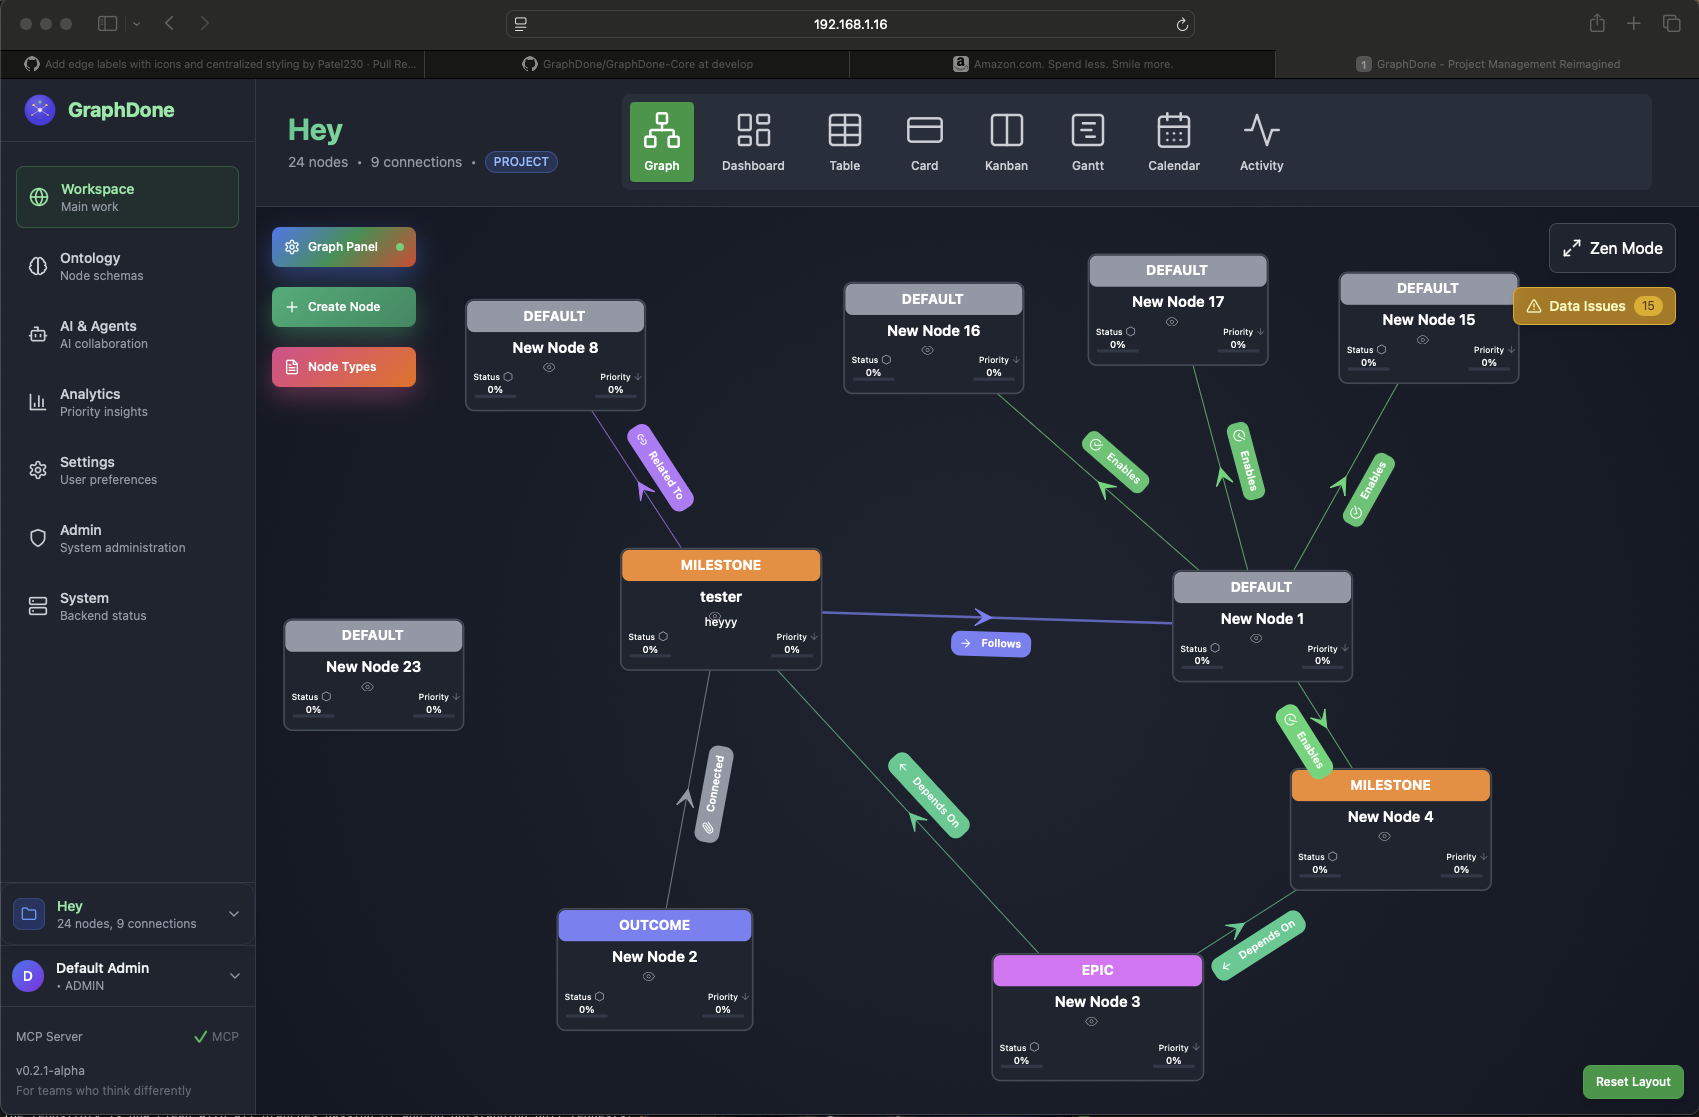
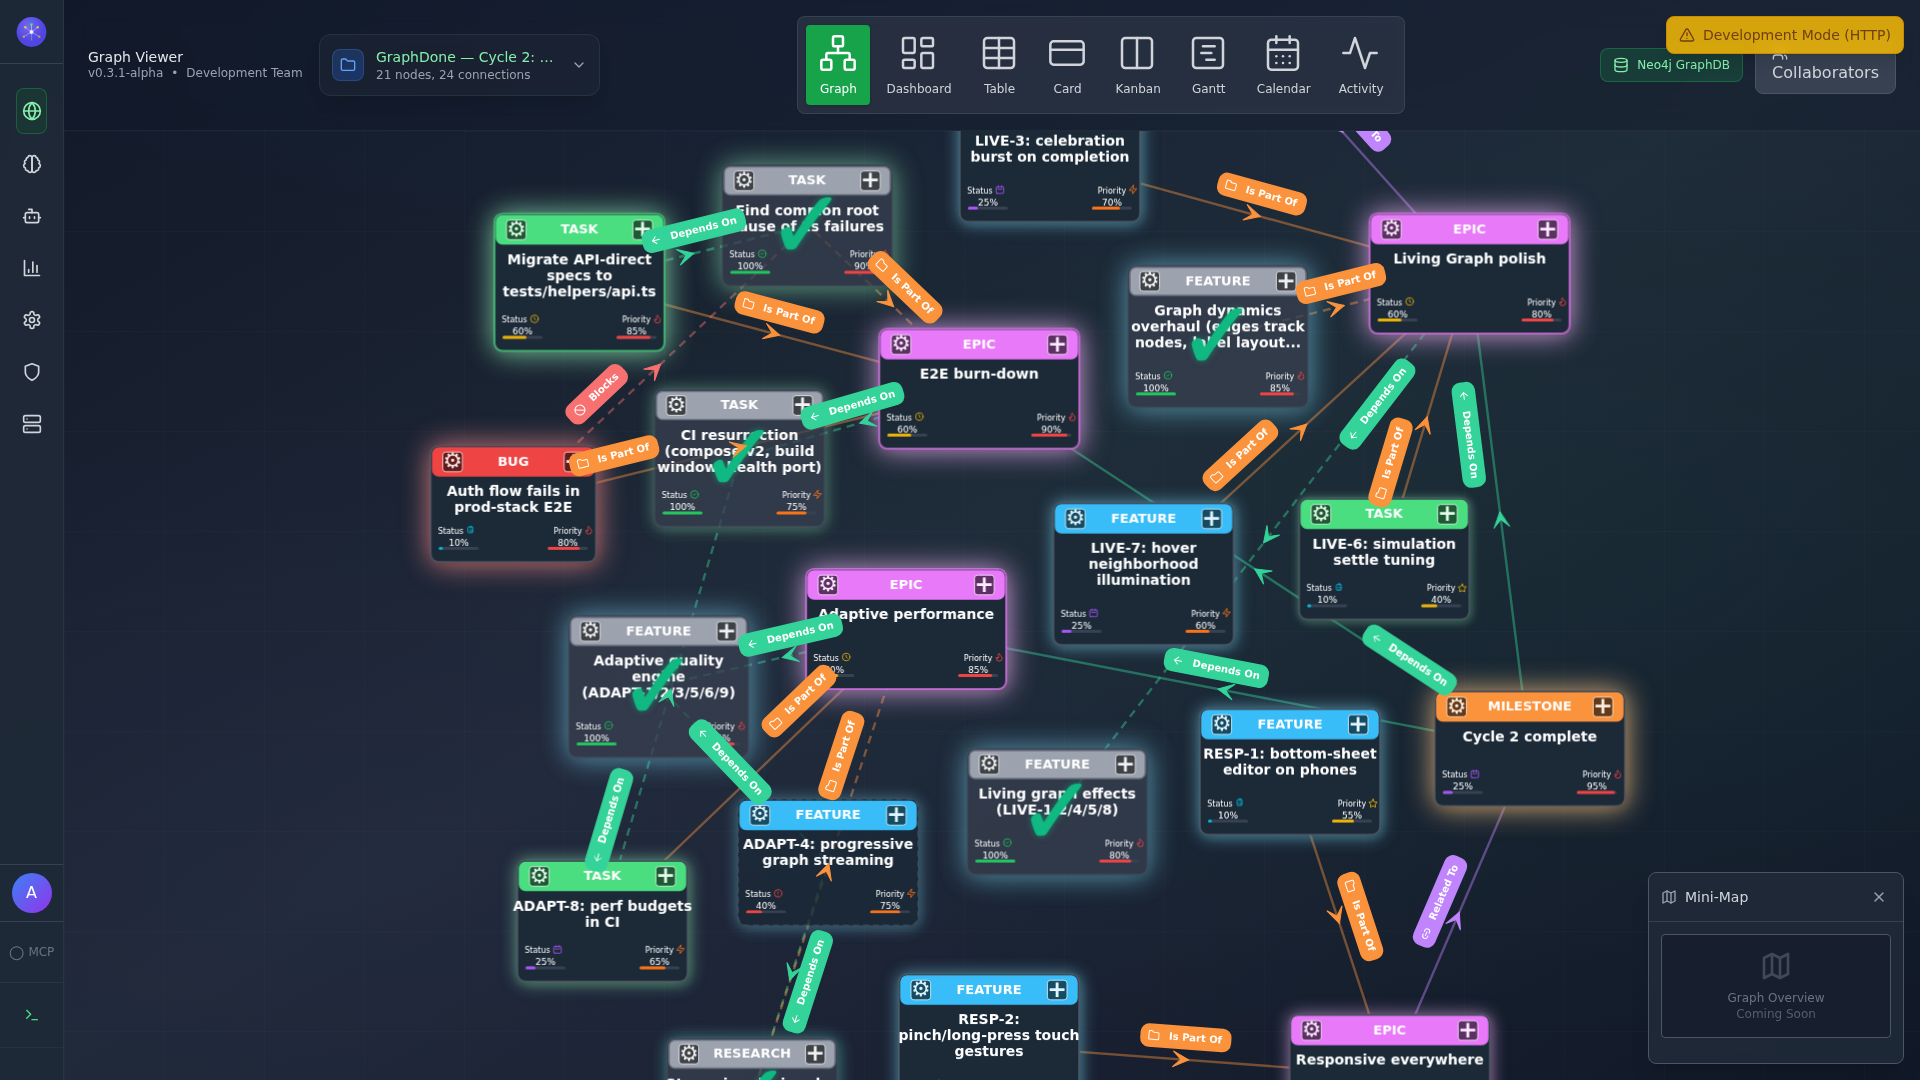
Presentability pass: README for the Living Graph era, all 43 mermaid diagrams verified
- README features now describe what's actually true today: the living
  graph, adaptive performance, click-budget UX with undo, MCP/AI
  parity, the ontology direction — and honestly downgrades the old
  'mobile-first' claim to 'touch-native in active development' (the
  dogfood session proved node interactions are still mouse-only)
- Hero screenshot replaced with the current living graph (glow,
  energy flow) instead of the pre-reboot UI
- Documentation section leads with the Living Graph era docs (user
  stories, interaction model, ontology design, AI quickstart, plan)
- Rendered ALL 43 mermaid diagrams across 5 docs with mermaid-cli:
  fixed the one parse failure (unescaped quotes in user-flows.md
  voice-interaction labels); 43/43 now render

diff --git a/README.md b/README.md
@@ -2,7 +2,7 @@
 
 > Project management for teams who think differently. Coordinate through dependencies and outcomes, not hierarchies and top-down control.
 
-![GraphDone UI Screenshot](./docs/graphdone_ui.png)
+![GraphDone's living graph — priority glow, breathing nodes, energy flowing along dependencies](./docs/graphdone_ui.png)
 
 ![License](https://img.shields.io/badge/license-MIT-blue.svg)
 ![Version](https://img.shields.io/badge/version-0.3.1--alpha-orange.svg)
@@ -15,11 +15,12 @@
 GraphDone reimagines project management as a collaborative graph where work flows through natural dependencies rather than artificial hierarchies. It's designed for high-quality individual contributors who thrive on autonomy, teams that include AI agents, and organizations ready to embrace democratic coordination.
 
 **Key Features:**
-- 🌐 **Graph-native collaboration** - Visualize work as interconnected outcomes and dependencies
-- 📱 **Mobile-first design** - Touch-friendly interface for distributed teams
-- 🤖 **AI agent integration** - Humans and AI coordinate as peers through the same interface
-- 🗳️ **Democratic prioritization** - Anonymous rating system lets good ideas rise organically
-- 🎯 **Hierarchical graph navigation** - Browse from high-level goals down to detailed tasks with dynamic levels of detail
+- 🌊 **A living graph** - in-progress work breathes, priority glows, energy flows along dependencies, completed work celebrates. The graph feels inhabited, not diagrammed
+- ⚡ **Adaptive performance** - quality tiers auto-scale to your device and network (a workstation gets everything; a phone on cellular gets a fast, lighter experience)
+- ✨ **Friction-free by contract** - grow a connected, named item in 2 clicks; undo anything (Ctrl+Z or one tap); every mode exits with Esc or a click-away. Click budgets are enforced by tests
+- 🤖 **AI agents as peers** - a full MCP server and GraphQL API give agents the same powers as the UI; `get_graph_context` orients an agent in one call
+- 🧬 **Ontology-ready backbone** - overlapping ontology sets (task management today; requirements traceability with coverage reports in design) on one graph engine
+- 📱 **Responsive across devices** - desktop-complete today, with a tested viewport matrix; touch-native interactions in active development
 - 🌍 **Open source** - MIT licensed with no vendor lock-in
 
 ## How GraphDone Differs from Traditional PM Tools
@@ -320,6 +321,14 @@ Anyone can propose ideas and assign personal priority. The community validates t
 
 ## Documentation
 
+**Start here — the Living Graph era:**
+- 🌊 **[User Stories — the development contract](./docs/USER_STORIES.md)** - Every feature starts as a story mapped to tests
+- 🧭 **[Interaction Model](./docs/design/interaction-model.md)** - The friction-free UX constitution: modes, exits, click budgets
+- 🧬 **[Ontology Layer design](./docs/design/ontology-layer.md)** - Requirements traceability and beyond, on one graph backbone
+- 🤖 **[AI Agents Quickstart](./docs/api/AI_AGENTS.md)** - 5-minute MCP/GraphQL setup for agent teammates
+- 🔬 **[Testing & Refinement Plan](./docs/TESTING_AND_REFINEMENT_PLAN.md)** - The never-done improvement loop
+
+**Foundations:**
 - 📖 **[Complete Technical Overview](./docs/detailed-overview.md)** - Architecture, implementation details, and visual deep-dive
 - 🎯 **[Project Philosophy](./docs/philosophy.md)** - Core beliefs and design principles  
 - 🚀 **[Getting Started Guide](./docs/guides/getting-started.md)** - Step-by-step setup and first steps

diff --git a/docs/guides/user-flows.md b/docs/guides/user-flows.md
@@ -263,9 +263,9 @@ graph TB
     end
     
     subgraph "Voice Interactions"
-        VOICE_CREATE[🎤 "Create task..."<br/>Quick node creation]
-        VOICE_PRIORITY[🎤 "Boost priority..."<br/>Priority adjustment]
-        VOICE_STATUS[🎤 "Mark complete..."<br/>Status updates]
+        VOICE_CREATE["🎤 'Create task...'<br/>Quick node creation"]
+        VOICE_PRIORITY["🎤 'Boost priority...'<br/>Priority adjustment"]
+        VOICE_STATUS["🎤 'Mark complete...'<br/>Status updates"]
     end
     
     subgraph "Contextual Actions"